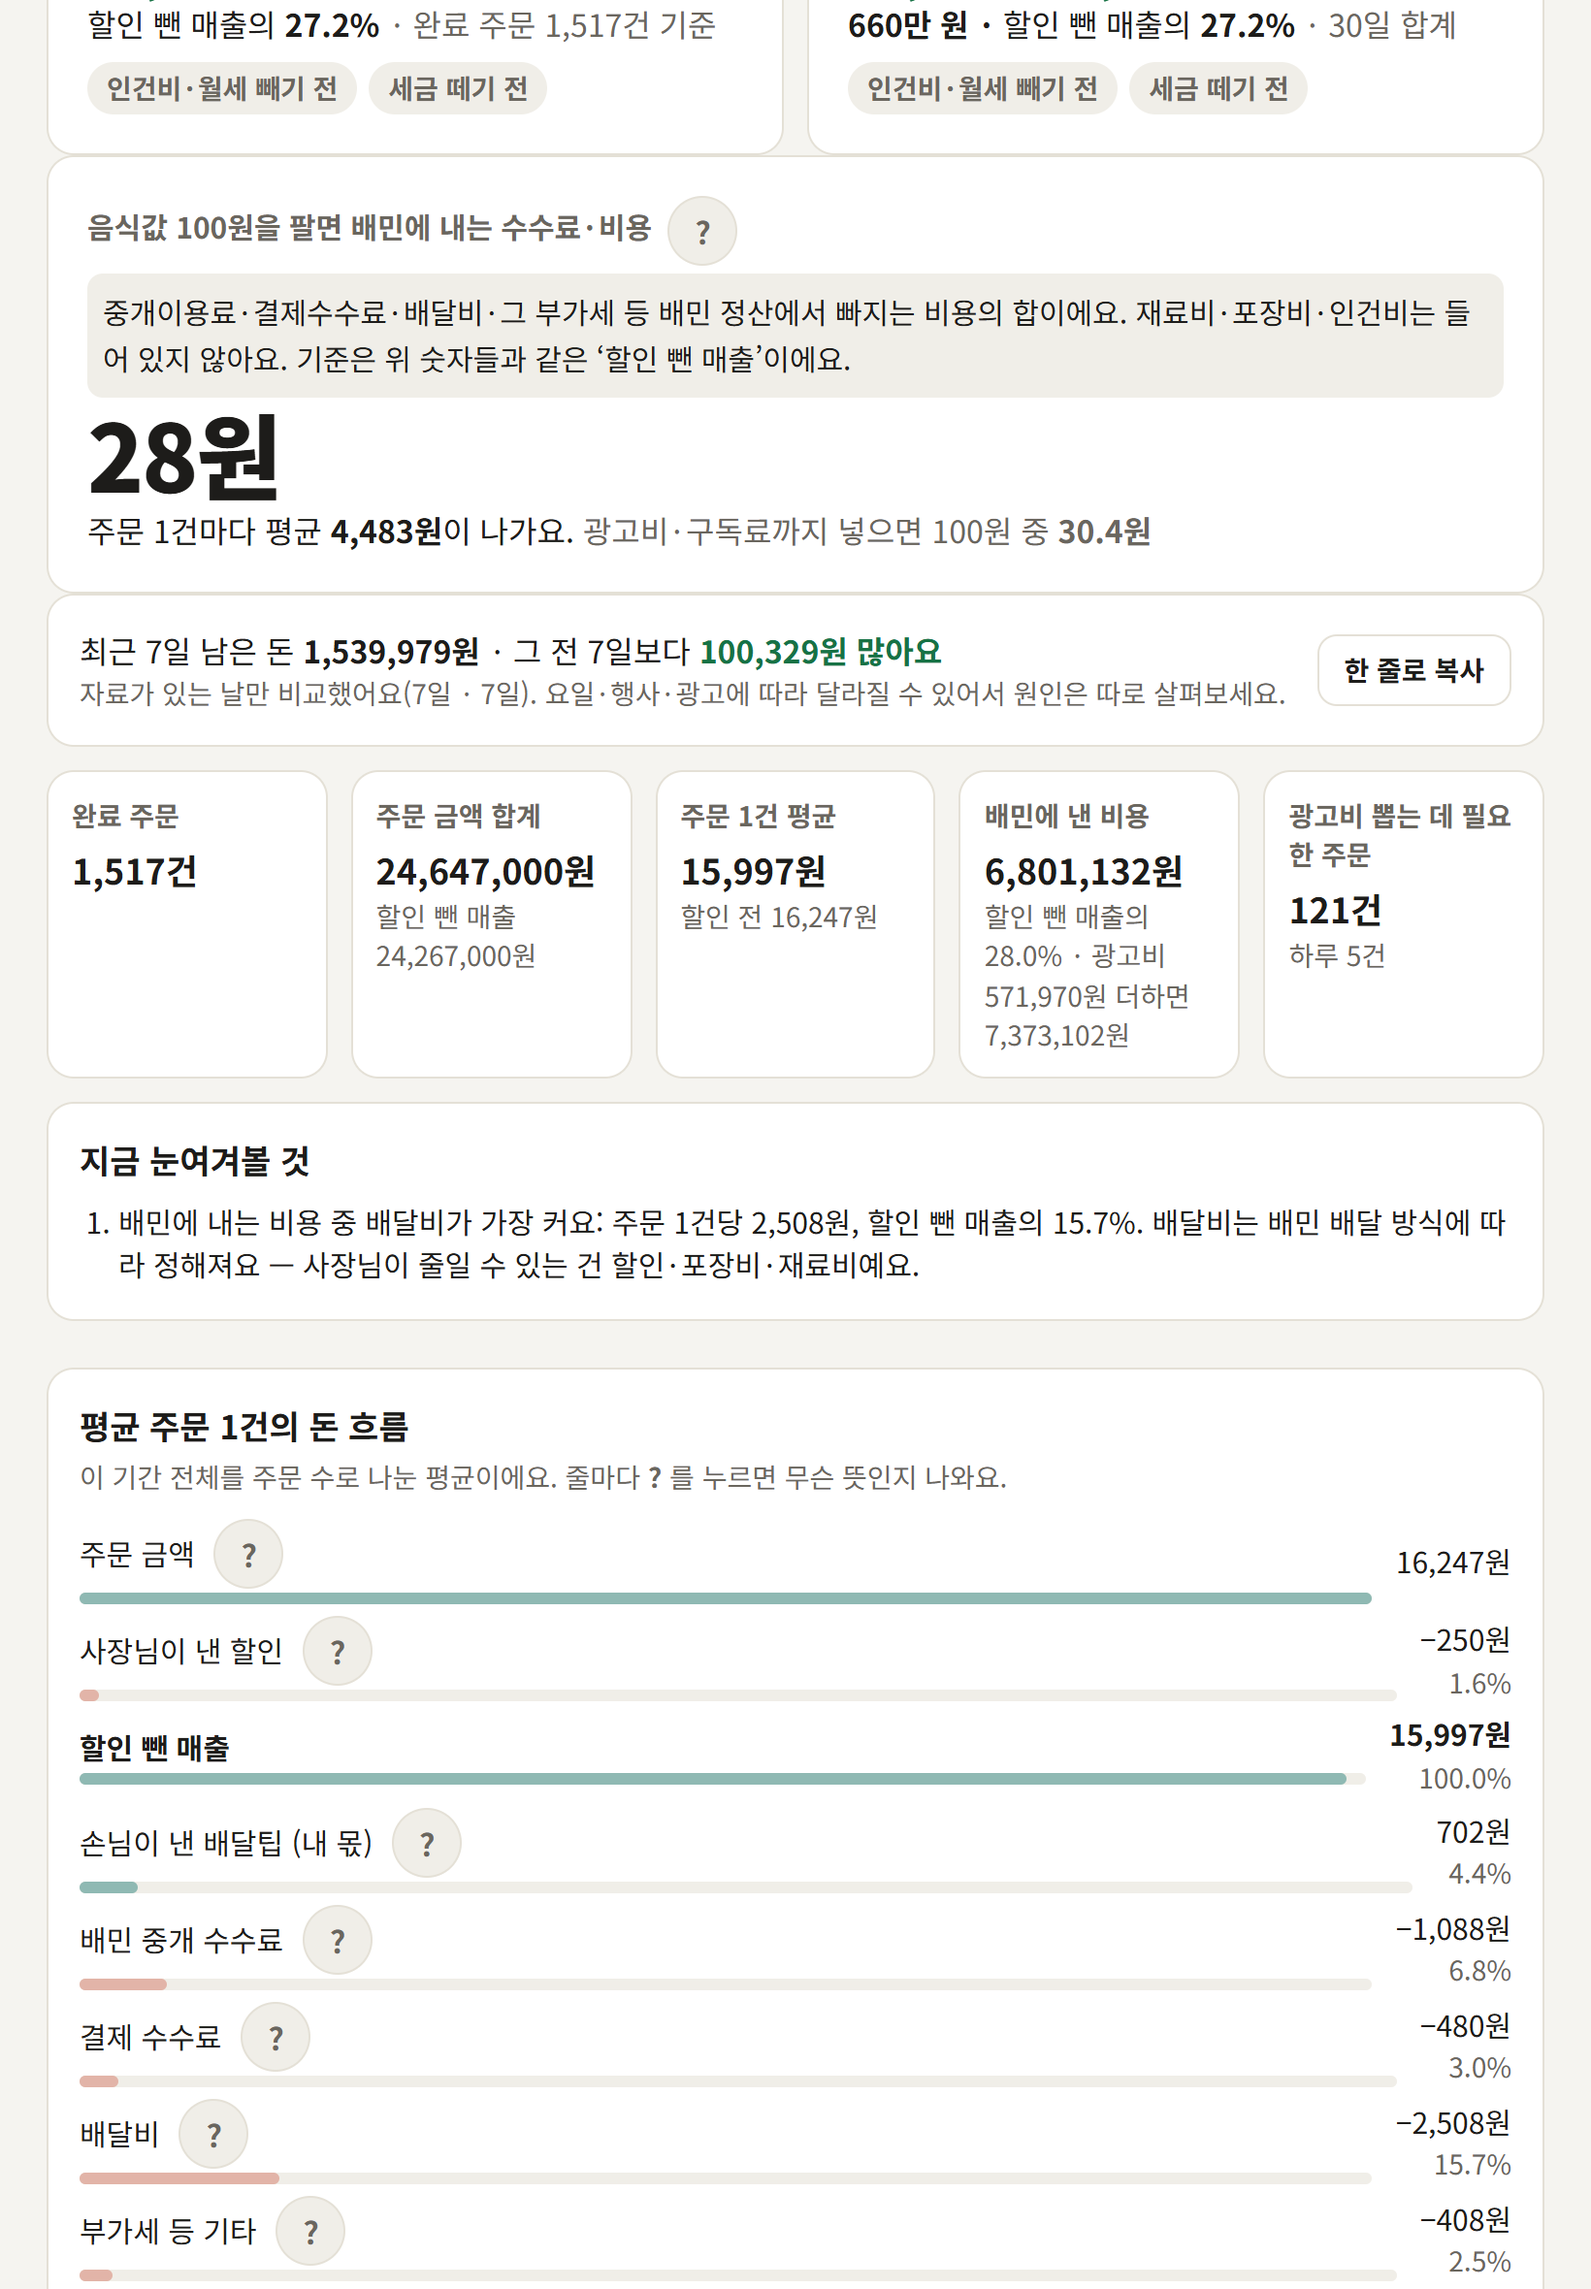
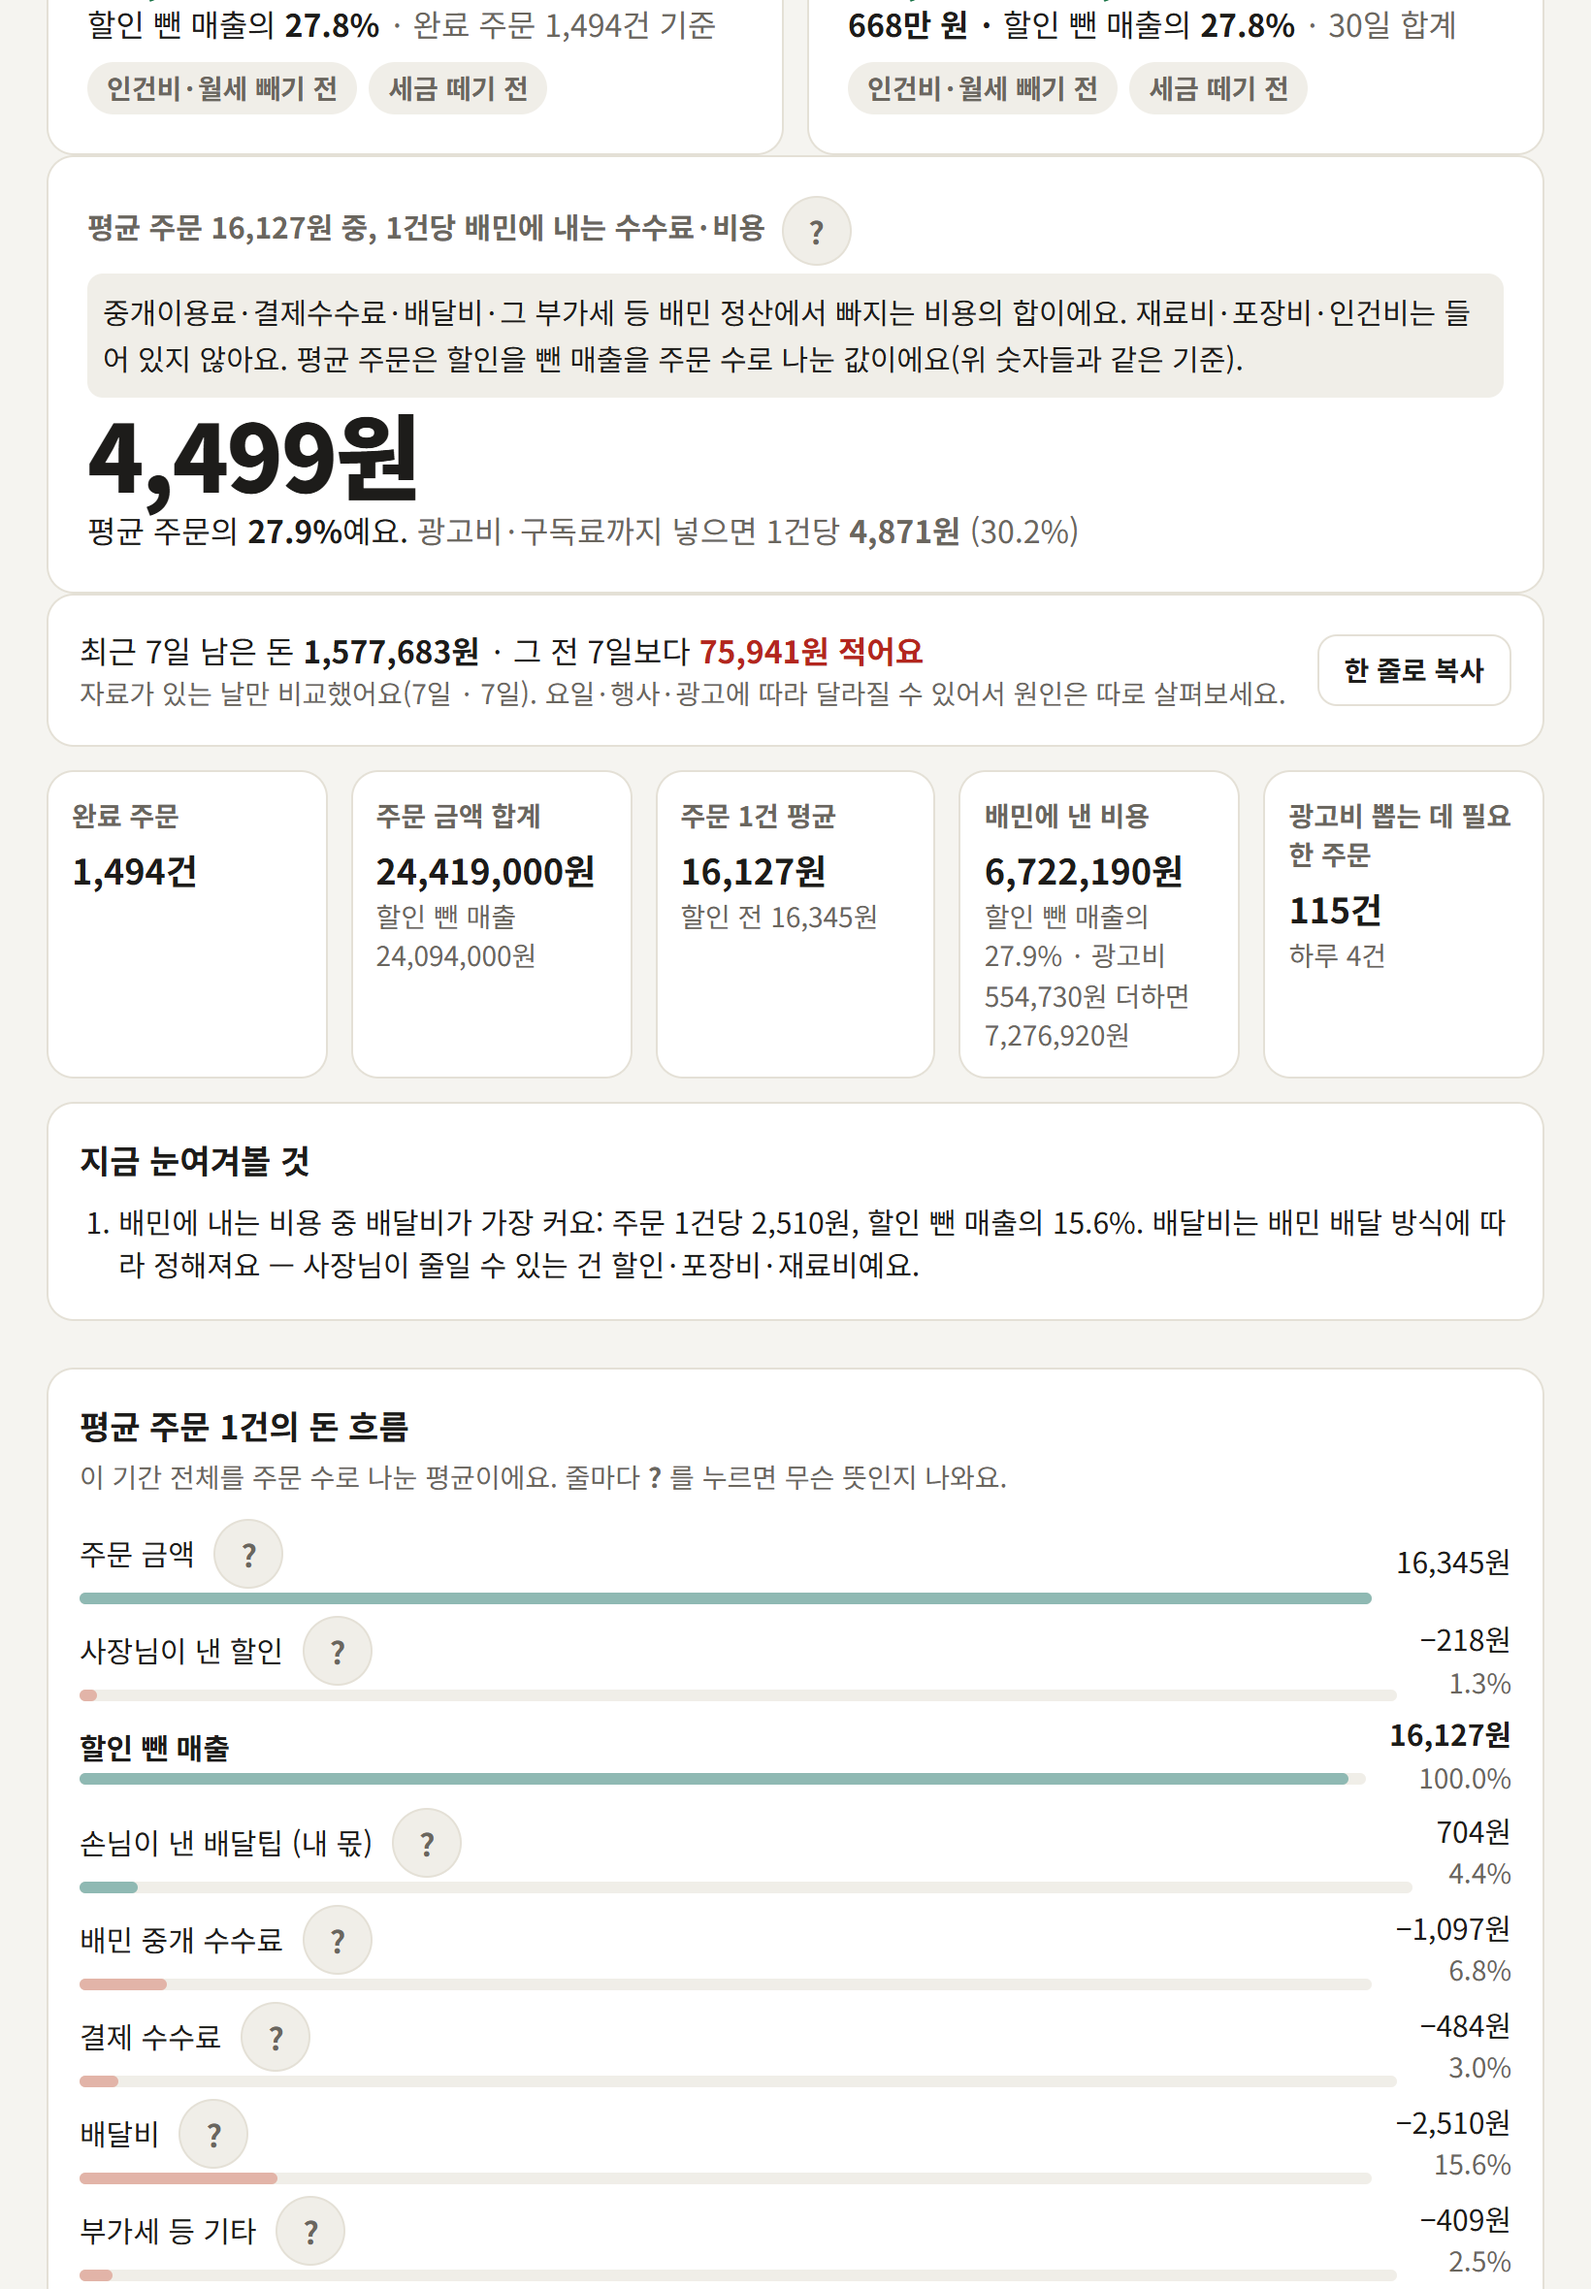
배민 비용을 평균 주문 1건당으로 표시, 데모 입금 전 표시 보강, 문서 갱신

diff --git a/src/components/insights.tsx b/src/components/insights.tsx
@@ -10,7 +10,7 @@ import { Help } from "./Help";
 
 const md = (d: string) => `${Number(d.slice(5, 7))}/${Number(d.slice(8, 10))}`;
 
-/** v9 ②: 음식값 100원 중 배민이 가져가는 돈 — 큰 숫자 한 줄 */
+/** v9 ②: 평균 주문(객단가) 1건당 배민에 내는 수수료·비용 — 큰 숫자 한 줄 */
 export function TakeShareLine({ result }: { result: ChannelResult }) {
   const t = takeShare(result);
   if (!t) return null;
@@ -18,19 +18,21 @@ export function TakeShareLine({ result }: { result: ChannelResult }) {
   return (
     <section className="card p-5">
       <div className="text-sm font-semibold muted">
-        음식값 100원을 팔면 배민에 내는 수수료·비용{" "}
-        <Help>중개이용료·결제수수료·배달비·그 부가세 등 배민 정산에서 빠지는 비용의 합이에요. 재료비·포장비·인건비는 들어 있지 않아요. 기준은 위 숫자들과 같은 &lsquo;할인 뺀 매출&rsquo;이에요.</Help>
-      </div>
-      <div className="mt-1 text-4xl font-extrabold tracking-tight md:text-5xl">{n(t.per100)}원</div>
-      <p className="mt-1 text-base">
-        {t.perOrder && (
+        {t.avgTicket ? (
           <>
-            주문 1건마다 평균 <strong>{won(t.perOrder)}</strong>이 나가요.{" "}
+            평균 주문 {won(t.avgTicket)} 중, 1건당 배민에 내는 수수료·비용{" "}
           </>
+        ) : (
+          <>배민에 내는 수수료·비용 </>
         )}
-        {t.withAd && (
+        <Help>중개이용료·결제수수료·배달비·그 부가세 등 배민 정산에서 빠지는 비용의 합이에요. 재료비·포장비·인건비는 들어 있지 않아요. 평균 주문은 할인을 뺀 매출을 주문 수로 나눈 값이에요(위 숫자들과 같은 기준).</Help>
+      </div>
+      <div className="mt-1 text-4xl font-extrabold tracking-tight md:text-5xl">{t.perOrder ? won(t.perOrder) : `${n(t.per100)}%`}</div>
+      <p className="mt-1 text-base">
+        평균 주문의 <strong>{n(t.per100)}%</strong>예요.{" "}
+        {t.perOrderWithAd && (
           <span className="muted">
-            광고비·구독료까지 넣으면 100원 중 <strong>{n(t.withAd)}원</strong>
+            광고비·구독료까지 넣으면 1건당 <strong>{won(t.perOrderWithAd)}</strong> ({n(t.withAd ?? t.per100)}%)
           </span>
         )}
       </p>
@@ -109,11 +111,8 @@ export function QuickCalc() {
       {bad && <p className="mt-2 text-sm loss">숫자를 다시 확인해 주세요. 낸 금액이 매출의 두 배를 넘거나 0 이하 숫자가 있어요.</p>}
       {r && (
         <div className="mt-3 grid grid-cols-1 gap-2 text-base md:grid-cols-2">
-          <div>
-            100원 팔면 배민에 <strong>{pct(r.per100.div(100), 1).replace("%", "")}원</strong>을 내요
-          </div>
-          <div>
-            주문 1건 평균 <strong>{won(r.avgOrder)}</strong>, 그중 <strong>{won(r.takenPerOrder)}</strong>이 나가요
+          <div className="md:col-span-2">
+            평균 주문 <strong>{won(r.avgOrder)}</strong> 중, 1건당 배민에 내는 수수료·비용은 <strong>{won(r.takenPerOrder)}</strong> (<strong>{pct(r.per100.div(100), 1)}</strong>)
           </div>
           <div className="md:col-span-2">
             재료비·포장비·인건비를 빼기 전 남는 돈 <strong>{won(r.leftBeforeCosts)}</strong> ({count(Number(v.orders.replace(/\D/g, "")))} 기준)

diff --git a/src/lib/insights.ts b/src/lib/insights.ts
@@ -4,14 +4,24 @@ import { addDays } from "./engine/period";
 import { type ChannelResult, computeChannel, headline, type Scope } from "./engine/profit";
 import { aggregate, type CostSettings, type Store } from "./dataset";
 
-/** "음식값 100원 중 배민이 가져가는 돈" — 수수료·결제수수료·배달비 등 공제 합계 ÷ 할인 뺀 매출 */
-export function takeShare(r: ChannelResult): { per100: Q; perOrder: Q | null; withAd: Q | null } | null {
+/** 평균 주문(객단가) 1건당 배민에 내는 수수료·비용 — 수수료·결제수수료·배달비 등 공제 합계 ÷ 주문 수 */
+export function takeShare(r: ChannelResult): {
+  per100: Q;
+  perOrder: Q | null;
+  withAd: Q | null;
+  /** 주문 1건 평균 객단가(할인 뺀 매출 ÷ 주문 수) */
+  avgTicket: Q | null;
+  /** 광고비·구독료까지 넣은 주문 1건당 비용 */
+  perOrderWithAd: Q | null;
+} | null {
   if (r.R.cmp(0) <= 0) return null;
   const per100 = r.deductionTotal.mul(100).div(r.R);
   const perOrder = r.N > 0 ? r.deductionTotal.div(r.N) : null;
+  const avgTicket = r.N > 0 ? r.R.div(r.N) : null;
   // 광고비·구독료 같은 배민 전용 기간 비용까지 넣은 값 (입력돼 있을 때만)
   const withAd = r.directFixed === null ? null : r.deductionTotal.add(r.directFixed).mul(100).div(r.R);
-  return { per100, perOrder, withAd };
+  const perOrderWithAd = r.directFixed === null || r.N <= 0 ? null : r.deductionTotal.add(r.directFixed).div(r.N);
+  return { per100, perOrder, withAd, avgTicket, perOrderWithAd };
 }
 
 export interface WeekWindow {

diff --git a/src/components/Dashboard.tsx b/src/components/Dashboard.tsx
@@ -231,7 +231,7 @@ export function Dashboard() {
           </div>
           <p className="mt-1">로그인 없이 눌러 보세요. 숫자는 모두 처음부터 만든 가상 숫자이고, 눌러도 어디에도 저장되지 않아요.</p>
           <ol className="mt-2 list-decimal pl-5 leading-relaxed">
-            <li><strong>여기부터 눌러 보세요</strong> — 맨 위 '음식값 100원을 팔면 배민에 내는 수수료·비용' 한 줄을 읽어 보세요.</li>
+            <li><strong>여기부터 눌러 보세요</strong> — 맨 위 '평균 주문 ○○원 중, 1건당 배민에 내는 수수료·비용' 한 줄을 읽어 보세요.</li>
             <li>위쪽 <strong>자세히 보기</strong>를 누르고 '메뉴별 수익성'에서 남는 비율이 낮은 <strong>모둠 수육 (중)</strong>을 찾아 보세요.</li>
             <li>'가격 실험'에서 그 메뉴를 골라 값을 올려 보고, 아래 '정산 대조'의 빨간 줄(입금 전)을 확인해 보세요.</li>
           </ol>

diff --git a/tests/engine.test.ts b/tests/engine.test.ts
@@ -424,6 +424,17 @@ describe("예시 가게 C — 처음부터 만든 가상 자료 (v8)", () => {
   });
 });
 
+describe("데모 정산: 어느 날짜에 열어도 입금 전 줄이 보인다", () => {
+  it("14일 연속 날짜 모두, 선택 기간(어제까지) 안에 입금요청 정산이 있다", () => {
+    for (let i = 0; i < 14; i++) {
+      const today = addDaysFn("2026-10-01", i);
+      const c = demoBusinesses(today)[2];
+      const yesterday = addDaysFn(today, -1);
+      expect(c.settlements!.some((x) => x.status === "입금요청" && x.depositDueDate <= yesterday), today).toBe(true);
+    }
+  });
+});
+
 describe("v9: 요일별 평균과 자료 검산", () => {
   const row = (date: string, orders: number, gross: number, discount = 0) => ({ date, orders, gross, discount, deductions: { brokerage: 1000 } });
   const range = { start: "2026-09-07", end: "2026-09-20" }; // 월~일 두 주

diff --git a/src/lib/demo.ts b/src/lib/demo.ts
@@ -190,7 +190,8 @@ function storeCSettlements(days: CDay[], today: string) {
     out.push({
       giveId: 700_000 + n,
       depositDueDate,
-      status: depositDueDate >= addDays(today, -1) ? "입금요청" : "입금완료",
+      // 입금 예정일이 최근 3일 안이면 아직 입금 전(입금요청). 입금일이 없는 요일(월·화)에도 항상 한 건은 보이도록 3일로 잡았다
+      status: depositDueDate >= addDays(today, -3) ? "입금요청" : "입금완료",
       settlePeriod: { start: part[0].date, end: part[part.length - 1].date },
       depositAmount: revenue - adCost + adjustment,
       adCost,

diff --git a/CHANGELOG.md b/CHANGELOG.md
@@ -4,6 +4,9 @@
 
 다른 사장님 저장소(공동 저장소 baemin-ops-os-camp)를 읽고 가져온 것.
 
+- **(10/13) 배민 비용을 '평균 주문 1건당'으로 보여 줌**: "음식값 100원 중 N원" 대신 "평균 주문 16,127원 중, 1건당 배민에 내는 수수료·비용 4,499원 (27.9%)"처럼 사장님이 매일 보는 객단가 기준으로 바꿈. 광고비·구독료까지 넣은 1건당 값도 함께 보여 줌.
+- **(10/13) 데모 정산 '입금 전' 줄이 날짜에 따라 사라지던 것 고침**: 입금요청 표시를 최근 3일로 넓히고, 14일 연속 날짜로 테스트함.
+
 - **요일별 하루 평균** (숯불에닭의 요일별 평균 매출에서): 자세히 보기에 요일마다 하루 평균 주문 수와 '배민이 떼고 남은 돈'(수수료·배달비 등을 뗀 뒤, 재료비 전)을 보여 줌. 매출이 아니라 떼고 남은 돈으로 견주는 것이 이 도구에 맞게 바꾼 점. 자료 없는 날·쉰 날은 0원으로 채우지 않고, 요일마다 3일 미만이면 '참고만'이라고 알림.
 - **자료 검산** (김씨육면의 검산 스크립트에서): 개발자 명령어가 아니라 화면에서, 같은 날짜 중복·음수·할인>매출·메뉴 합계 불일치를 찾으면 위쪽에 빨간 경고. 문제가 없으면 아무것도 안 보임. 예시 가게 A·B·C는 테스트로 고정.
 - **CLAUDE.md에 실제로 당한 것 정리** (김씨육면의 CLAUDE.md 습관에서).

diff --git a/docs/만든과정.md b/docs/만든과정.md
@@ -13,7 +13,7 @@
 | v6 | 9/21 | 메뉴 하나만 올리는 가격 실험, 가격을 못 정하는 가게용 추천 | 재QA와 독립 검토 |
 | v7 | 9/26 | 정산 대조·광고 효율이 채워진 시연용 예시 가게 | "다른 사장님한테 똑같이 보이게" |
 | v8 | 10/12 | 시연 자료를 처음부터 만든 가상 자료로 교체, 폰·패드 화면 고침, 입금 전 빨간 줄 | 캠프 피드백 + 공개 원칙 |
-| v9 | 10/12 | 요일별 평균, 화면 자료 검산, 100원 중 비용 한 줄, 7일 비교, 내 숫자 3개 계산, 데모 사이트 모드 | 다른 사장님 저장소에서 배움, AI 아이디어 5개 |
+| v9 | 10/12 | 요일별 평균, 화면 자료 검산, 평균 주문 1건당 비용 한 줄, 7일 비교, 내 숫자 3개 계산, 데모 사이트 모드 | 다른 사장님 저장소에서 배움, AI 아이디어 5개 |
 
 ## 시행착오
 - 폰 화면이 옆으로 밀렸을 때 원인을 선택 칸으로 잘못 짚었다. 고치기 전·후 폭이 같아서 틀린 걸 알았고, 진짜 원인은 표가 든 칸이 줄어들지 못하던 것이었다.

diff --git a/docs/운영사례.md b/docs/운영사례.md
@@ -23,7 +23,7 @@
 ## 쓰는 순서 (실제로 하는 일)
 1. PC에서 프로그램을 켜고 **자료 가져오기**를 누른다. 크롬이 열리면 배민에 직접 로그인한다. (비밀번호는 저장하지 않음)
 2. 처음 한 번 재료비·포장비·인건비를 넣는다. 재료비는 대표 메뉴 한 그릇의 판매가와 재료비만 알면 된다.
-3. 첫 화면(간단히 보기)에서 "주문 1건당 남는 금액"과 "음식값 100원을 팔면 배민에 내는 수수료·비용"을 본다.
+3. 첫 화면(간단히 보기)에서 "주문 1건당 남는 금액"과 "평균 주문 ○○원 중, 1건당 배민에 내는 수수료·비용"을 본다.
 4. 궁금하면 자세히 보기에서 메뉴별 남는 돈, 가격 실험, 정산 대조, 요일별 평균을 본다.
 
 ## 실제 화면에서 보인 것 (금액은 가림)
